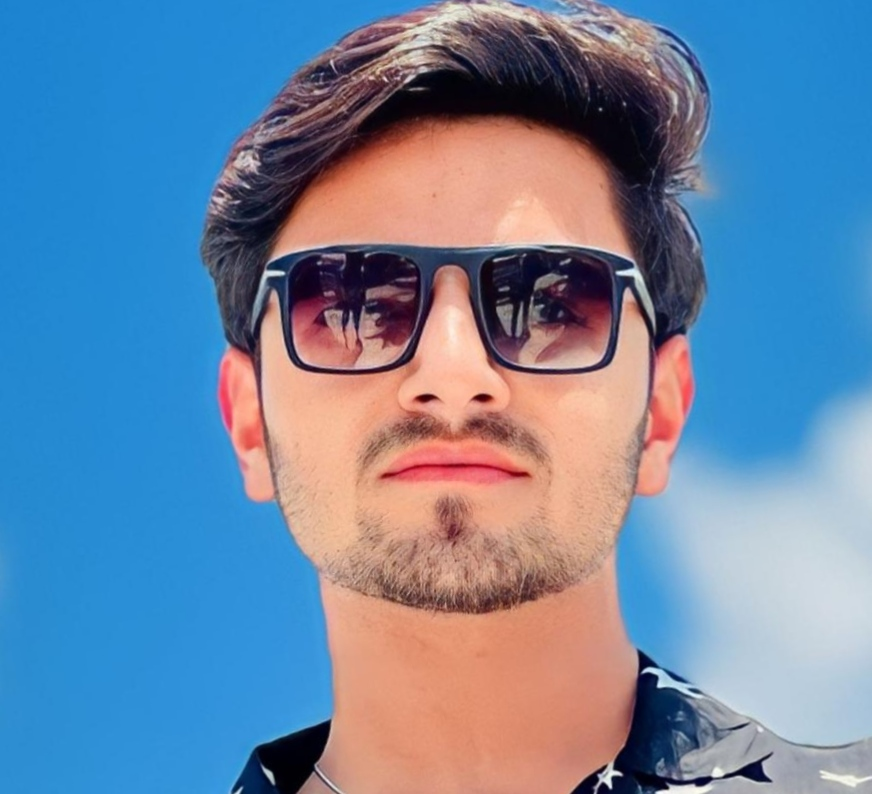
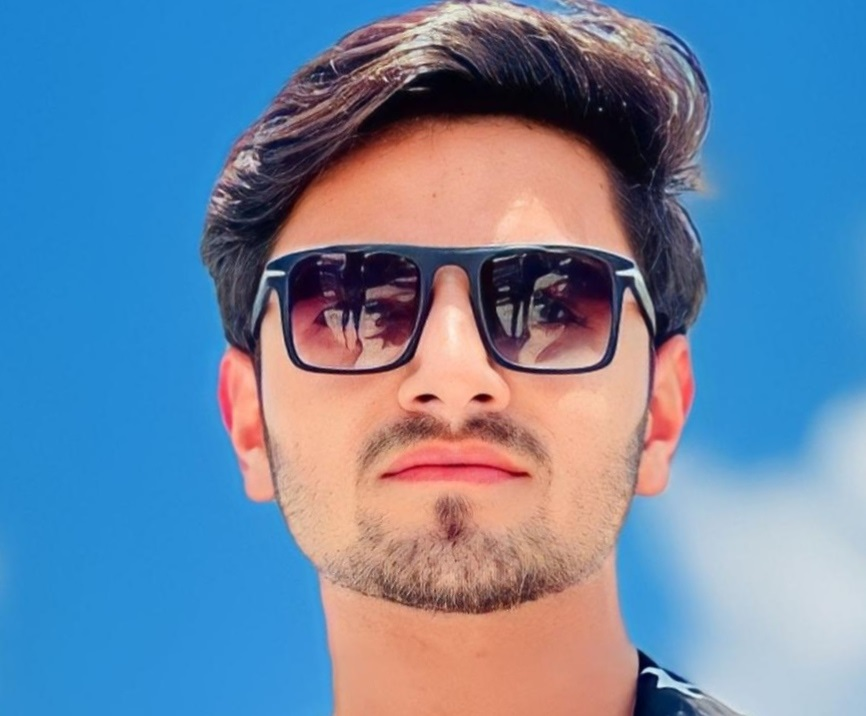
fixed all image imports

diff --git a/src/pages/StarDust.jsx b/src/pages/StarDust.jsx
@@ -2,6 +2,7 @@ import React, { useState, useEffect } from 'react';
 import { motion, AnimatePresence } from 'framer-motion';
 import { Moon, Sun, Sparkles, Star, Heart } from 'lucide-react';
 import StarDustLoader from '../components/StarDustLoader';
+import { useNavigate } from 'react-router-dom';
 
 const StarDust = () => {
   const [loading, setLoading] = useState(true);
@@ -38,20 +39,22 @@ const StarDust = () => {
     { id: 4, text: "and it wasn't meant to be.", duration: 2600, type: "build", icon: "⭐" },
     { id: 5, text: "But you didn't stop.", duration: 2800, type: "strong", icon: "🔥" },
     { id: 6, text: "Somewhere along the way...", duration: 2700, type: "dream", icon: "🌌" },
-    { id: 7, text: "this stopped being just a game.", duration: 3000, type: "revelation", icon: "🎮" },
+    { id: 7, text: "this stopped being just a game.", duration: 3000, type: "revelation", icon: "" },
     { id: 8, text: "You started to mean something...", duration: 2900, type: "emotional", icon: "💖" },
     { id: 9, text: "not because you won...", duration: 2600, type: "pause", icon: "" },
     { id: 10, text: "but because you stayed.", duration: 3200, type: "heart", icon: "❤" },
     { id: 11, text: "That kind of effort...", duration: 2500, type: "soft", icon: "🌿" },
     { id: 12, text: "It's rare.", duration: 2400, type: "impact", icon: "💎" },
     { id: 13, text: "And rare things...", duration: 2600, type: "pause", icon: "✨" },
-    { id: 14, text: "don't go unnoticed.", duration: 2800, type: "warm", icon: "👀" },
+    { id: 14, text: "don't go unnoticed.", duration: 2800, type: "warm", icon: "" },
     { id: 15, text: "So no... you're not just playing anymore.", duration: 3100, type: "truth", icon: "" },
     { id: 16, text: "You're part of this now.", duration: 2900, type: "connection", icon: "🔗" },
     { id: 17, text: "And the deeper you go...", duration: 2700, type: "mystery", icon: "🌀" },
     { id: 18, text: "the harder it becomes to walk away.", duration: 3200, type: "gravity", icon: "" },
     { id: 19, text: "So tell me...", duration: 2600, type: "invitation", icon: "💭" },
   ];
+
+  const navigate = useNavigate();
 
   useEffect(() => {
     const timer = setTimeout(() => setLoading(false), 4000);
@@ -333,7 +336,7 @@ const StarDust = () => {
                   <motion.button
                     whileHover={{ scale: 1.03, letterSpacing: "0.2em" }}
                     onClick={() => window.history.back()}
-                    className={`text-[8px] md:text-[9px] tracking-[0.3em] uppercase transition-all duration-300 ${theme === 'dark' ? 'text-gray-500 hover:text-white' : 'text-gray-500 hover:text-black'}`}
+                    className={`text-[12px] md:text-[9px] tracking-[0.3em] uppercase transition-all duration-300 ${theme === 'dark' ? 'text-gray-500 hover:text-white' : 'text-gray-500 hover:text-black'}`}
                   >
                     🛡 Take me back to safety 🛡
                   </motion.button>

diff --git a/src/components/ZenithNodeLoader.jsx b/src/components/ZenithNodeLoader.jsx
@@ -156,6 +156,7 @@ const DimensionalRiftLoader = ({ onFinished }) => {
     const liquidColor = isActive ? activeColor : "rgba(255,255,255,0.1)"; // Liquid color
 
     return (
+      
       <div className={`relative h-6 w-6 rounded-full overflow-hidden border-2 transition-all duration-300 ${isActive ? '' : 'border-white/10'}`}
         style={{
           borderColor: baseColor,
@@ -185,6 +186,8 @@ const DimensionalRiftLoader = ({ onFinished }) => {
         {/* Shine highlight */}
         <div className="absolute top-1 left-1 h-2 w-2 bg-white/40 rounded-full blur-[1px]"></div>
       </div>
+
+      
     );
   };
 
@@ -225,14 +228,38 @@ const DimensionalRiftLoader = ({ onFinished }) => {
             </div>
           </div>
 
+          
+
           {/* Interaction Indicators - UPGRADED TO LIQUID EFFECT */}
           <div className="flex justify-center gap-8 pt-4">
             <LiquidIndicator currentPercent={percent} threshold={25} activeColor="#00ffff" /> {/* Cyan */}
             <LiquidIndicator currentPercent={percent} threshold={50} activeColor="#ff00ff" /> {/* Magenta */}
             <LiquidIndicator currentPercent={percent} threshold={75} activeColor="#ffffff" /> {/* White */}
           </div>
+
+          <div className="w-full text-center py-6 px-4">
+  <h1 className="group cursor-default">
+    <span className="block text-sm md:text-base font-medium tracking-[0.3em] text-purple-400 uppercase mb-2 animate-pulse">
+      Interactive Experience
+    </span>
+    <span className="text-2xl md:text-5xl font-black tracking-tighter text-transparent bg-clip-text bg-gradient-to-r from-cyan-300 via-blue-400 to-indigo-400 transition-all duration-500 group-hover:tracking-widest drop-shadow-[0_0_15px_rgba(103,232,249,0.3)]">
+      Tap & see the 
+      <span className="relative inline-block ml-3">
+        <span className="relative z-10 bg-gradient-to-r from-purple-400 to-pink-500 bg-clip-text text-transparent">
+          MAGIC
+        </span>
+        <span className="absolute -inset-1 bg-purple-500/20 blur-lg rounded-full"></span>
+      </span>
+       
+    </span>
+  </h1>
+</div>
+
+          
         </div>
       </div>
+
+      
 
       {/* Grid Distortion */}
       <div className="absolute inset-0 pointer-events-none opacity-20" 
@@ -244,6 +271,10 @@ const DimensionalRiftLoader = ({ onFinished }) => {
 
       {/* Noise Grain */}
       <div className="absolute inset-0 pointer-events-none opacity-[0.04] bg-[url('https://res.cloudinary.com/dyd911kmh/image/upload/v1640050215/grain_u8706t.png')]"></div>
+
+
+
+      
 
       <style jsx>{`
         @keyframes scanline {
@@ -269,6 +300,7 @@ const DimensionalRiftLoader = ({ onFinished }) => {
         }
       `}</style>
     </div>
+    
   );
 };
 

diff --git a/src/pages/ZenithNode.jsx b/src/pages/ZenithNode.jsx
@@ -698,17 +698,28 @@ const Logo = ({ theme }) => (
     initial={{ opacity: 0, x: -20 }}
     animate={{ opacity: 1, x: 0 }}
     transition={{ duration: 1, delay: 0.5 }}
-    className="fixed top-6 left-6 md:top-10 md:left-10 z-[100] flex items-center gap-3 pointer-events-auto cursor-pointer group"
+    className="fixed top-6 left-6 md:top-10 md:left-12 z-[100] flex items-center gap-3 pointer-events-auto cursor-pointer group"
   >
-    <div className="relative group h-10 w-10 md:h-12 md:w-12 flex items-center justify-center overflow-hidden rounded-full">
-      <div className={`absolute inset-0 rounded-full blur-md opacity-70 group-hover:opacity-100 transition duration-300 ${theme === 'dark' ? 'bg-purple-500/20' : 'bg-pink-400/30'}`} />
-      <img 
-        src={firstCardImg}
-        alt="Zenith Logo"
-        className="relative z-10 w-[110%] h-[110%] object-contain transition-all duration-300 ease-out group-hover:scale-110"
-      />
+    {/* Main Container - Size increased */}
+    <div className="relative group h-14 w-14 md:h-20 md:w-20 flex items-center justify-center overflow-hidden rounded-full p-[2px]">
+      
+      {/* Animated Rotating Border (The Magic Part) */}
+      <div className={`absolute inset-0 rounded-full animate-spin-slow bg-gradient-to-r from-cyan-400 via-purple-500 to-pink-500 opacity-80 group-hover:opacity-100`} />
+      
+      {/* Background Blur / Glow */}
+      <div className={`absolute inset-0 rounded-full blur-xl opacity-60 group-hover:opacity-100 transition duration-500 ${theme === 'dark' ? 'bg-cyan-500/40' : 'bg-pink-400/40'}`} />
+
+      {/* Image Container */}
+      <div className="relative z-10 w-full h-full rounded-full bg-[#0a0a0a] overflow-hidden flex items-center justify-center">
+        <img 
+          src={firstCardImg}
+          alt="Zenith Logo"
+          // object-cover aur w-full h-full se image perfectly fit ho jaye gi
+          className="w-full h-full object-cover transition-all duration-500 ease-out group-hover:scale-125 filter group-hover:brightness-110"
+        />
+      </div>
     </div>
-  </motion.div>
+</motion.div>
 )
 
 // ─── Root Component ───────────────────────────────────────────────────────────
